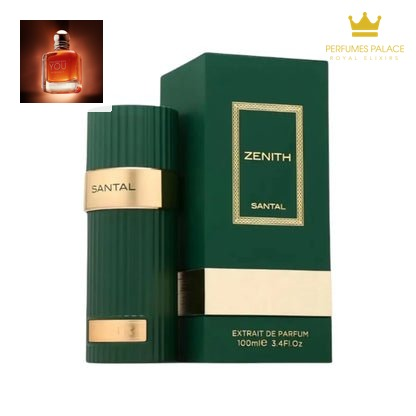
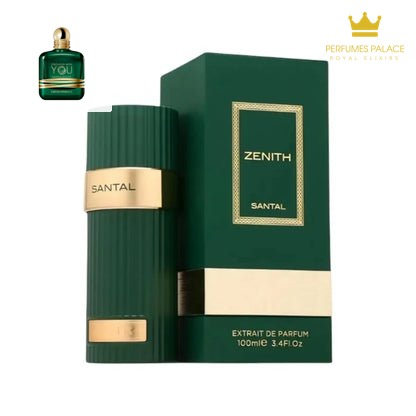
Zenith Santal badge: use exact user-provided SWY Sandalwood bottle

Changed region(s): [[0.0312, 0.0312, 0.25, 0.25]]

diff --git a/alternative-pictures/compose.py b/alternative-pictures/compose.py
@@ -38,7 +38,6 @@ def find_original(names):
         'YSL Myself': 'YSL MYSLF',
         'Gucci Guilty Elixir de Parfum Pour Homme': 'Gucci Guilty Elixir Pour Homme',
         'Jean Paul Gaultier Le Male Elixir Absolu': 'Le Male Elixir Absolu',
-        'Giorgio Armani Stronger With You Sandalwood': 'Giorgio Armani Stronger With You Intensely',
     }
     for n in names:
         n = aliases.get(n, n)
